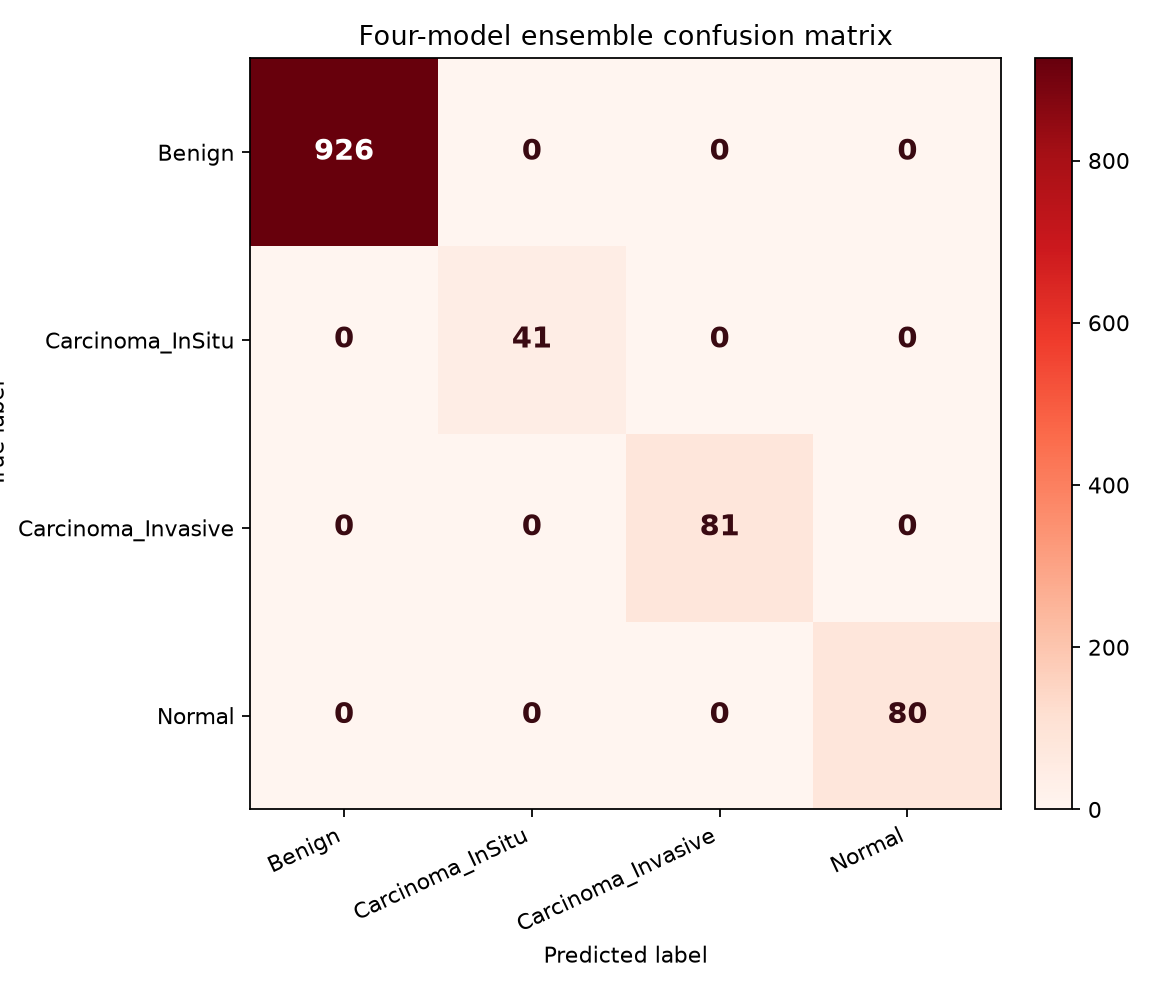
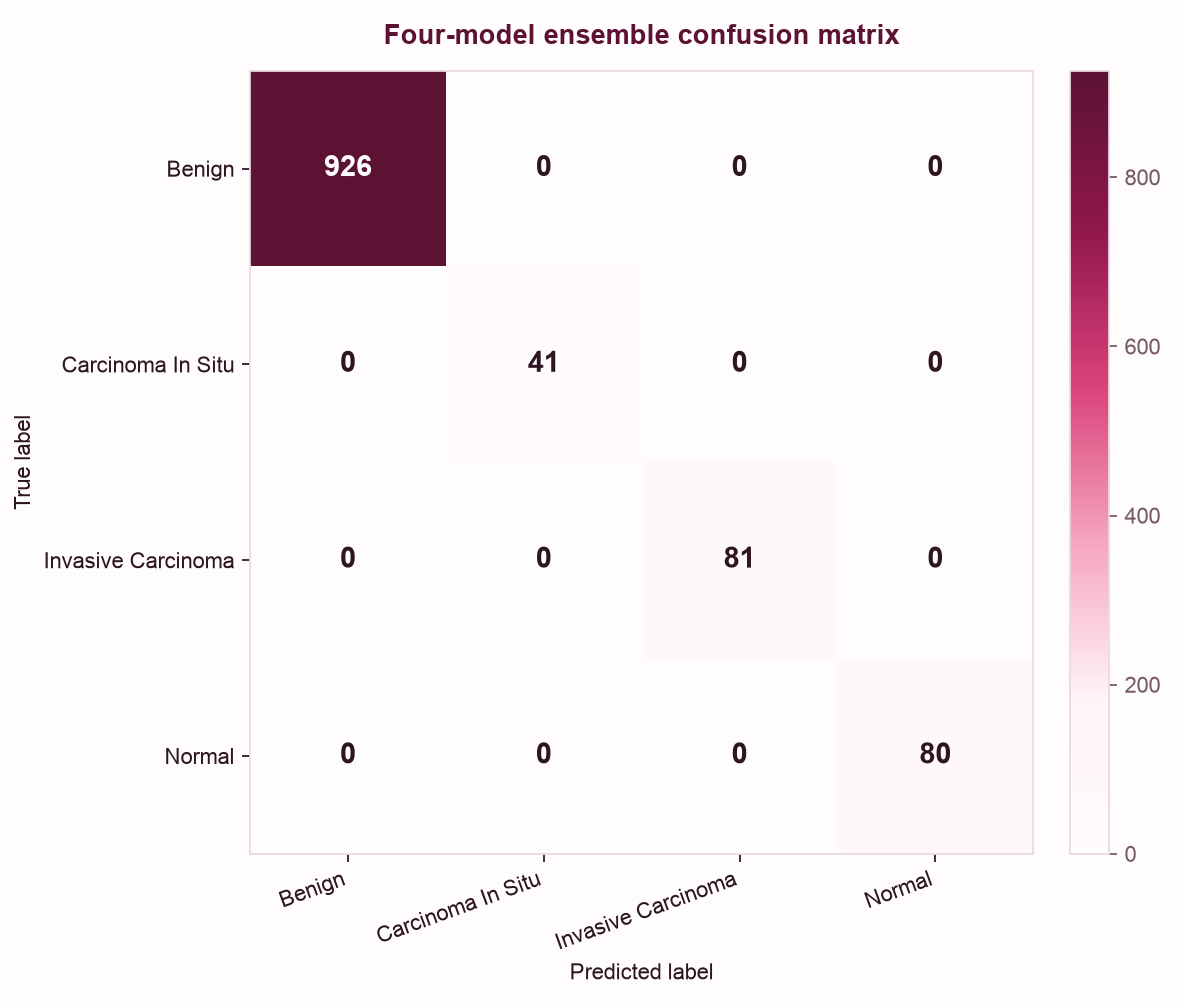
Clarify live vs Colab ensemble and restyle the confusion matrix.

diff --git a/frontend/src/pages/ModelPage/index.tsx b/frontend/src/pages/ModelPage/index.tsx
@@ -17,16 +17,16 @@ export function ModelPage() {
 
       <h2>Model evaluation</h2>
       <p className={styles.sub}>
-        Test support: 1,128 images after MD5 deduplication and a grouped, class-stratified split
-        (Benign 926, Carcinoma In Situ 41, Invasive Carcinoma 81, Normal 80). Results are from the
-        four-model soft-voting ensemble on that held-out split and do not establish clinical
-        effectiveness.
+        Test support: 1,128 images (Benign 926, In Situ 41, Invasive 81, Normal 80) after MD5
+        dedup of 9,000 → 6,995 unique images and a grouped, class-stratified split. The 100%
+        scores below are the Colab ensemble of all four newly trained checkpoints, including the
+        weak VGG. The live site is the three new backbones plus the previous VGG. Not clinical
+        evidence.
       </p>
       <div className={styles.notice}>
-        <strong>How to read the 100% score.</strong> Every test Benign image (926) came from the
-        added breast-benign dataset. The original Kaggle histology test slice (202 images) contained
-        In Situ, Invasive, and Normal only — no Benign. Perfect accuracy here does not mean the
-        original Benign class was re-tested.
+        <strong>How to read the 100% score.</strong> All 926 test Benign images came from the
+        added breast-benign set. The 202 original-Kaggle test images were In Situ, Invasive, and
+        Normal only — original Benign was not in this test split.
       </div>
 
       <div className={styles.metrics}>
@@ -103,14 +103,11 @@ export function ModelPage() {
 
       <h3>Architecture</h3>
       <p className={styles.body}>
-        Four CNN models (ResNet50, DenseNet121, EfficientNet-B0, VGG16) each predict class
-        probabilities. Those probabilities are averaged (soft voting) into one final prediction.
-        Models were fine-tuned in PyTorch for 5 epochs with AdamW (learning rate 1e-4, weight
-        decay 1e-4) and class-weighted cross-entropy to offset Benign over-representation after
-        extra data was added. Training combined the original 4-class Kaggle histology set with
-        additional breast-benign images. On this run ResNet50, DenseNet121, and EfficientNet-B0
-        reached 99.5%+ validation accuracy; VGG16 peaked at 84% and was not replaced in
-        production.
+        Soft-voting over ResNet50, DenseNet121, EfficientNet-B0, and VGG16. Fine-tuned 5 epochs
+        with AdamW (lr 1e-4, weight decay 1e-4) and class-weighted cross-entropy (Benign 0.321;
+        In Situ 3.117; Invasive 3.533; Normal 3.576). Data: original Kaggle 4-class histology plus
+        maestroalert/cancer <code>breast_benign</code> only. Val acc: ResNet 99.75%, DenseNet
+        99.58%, EfficientNet 99.50%. VGG peaked at 84% and was not replaced on the live site.
       </p>
 
       <h3>Preprocessing</h3>
@@ -132,20 +129,26 @@ export function ModelPage() {
       <h2>Limitations</h2>
       <ul className={styles.limits}>
         <li>
-          Held-out ensemble accuracy is 100.00% on 1,128 images, but the test split is unbalanced
-          and contains no original-Kaggle Benign images
+          The 100% score is the Colab four-new-checkpoint ensemble, not the live stack (new
+          ResNet/DenseNet/EfficientNet + previous VGG)
         </li>
-        <li>Perfect scores on this dataset do not imply clinical readiness or generalization</li>
         <li>
-          After deduplication, train still has far more Benign images (3,633) than the other
-          classes (~330 each); class weights reduce but do not remove that skew
+          Test split is unbalanced (926 extra-set Benign vs 202 original-Kaggle images with no
+          Benign)
         </li>
-        <li>The histology dataset is still small for robust deep-learning training</li>
+        <li>Perfect scores here do not imply clinical readiness or generalization</li>
+        <li>
+          After MD5 (9,000 → 6,995 unique), train still has 3,633 Benign vs ~330 of each other
+          class; weights reduce but do not remove that skew
+        </li>
+        <li>
+          Training data is H&amp;E histology from the original Kaggle 4-class set plus
+          maestroalert/cancer breast-benign images only
+        </li>
+        <li>The dataset is still small for robust deep-learning training</li>
         <li>The model may still produce false positives and false negatives on new data</li>
-        <li>Image quality and dataset differences may affect results</li>
         <li>The model has not been established as clinically effective</li>
         <li>Grad-CAM++ heatmaps highlight regions of influence, not pixel-perfect outlines</li>
-        <li>Final imaging modality and dataset documentation require team confirmation</li>
       </ul>
 
       <h2>Responsible use</h2>

diff --git a/frontend/src/pages/ResultsPage/index.tsx b/frontend/src/pages/ResultsPage/index.tsx
@@ -302,8 +302,9 @@ export function ResultsPage() {
               last
             >
               <p>
-                Current held-out test accuracy is 100.00% on 1,128 images (grouped split; 926 of
-                those are extra-set Benign) and does not establish clinical effectiveness.
+                Colab held-out accuracy is 100.00% on 1,128 images (926 extra-set Benign; no
+                original-Kaggle Benign in test). That figure is not the live ensemble and does not
+                establish clinical effectiveness.
                 Confidence scores may be incorrect, and Grad-CAM++ heatmaps are region-level
                 explanations rather than pixel-perfect outlines. Expert review remains necessary.
               </p>
